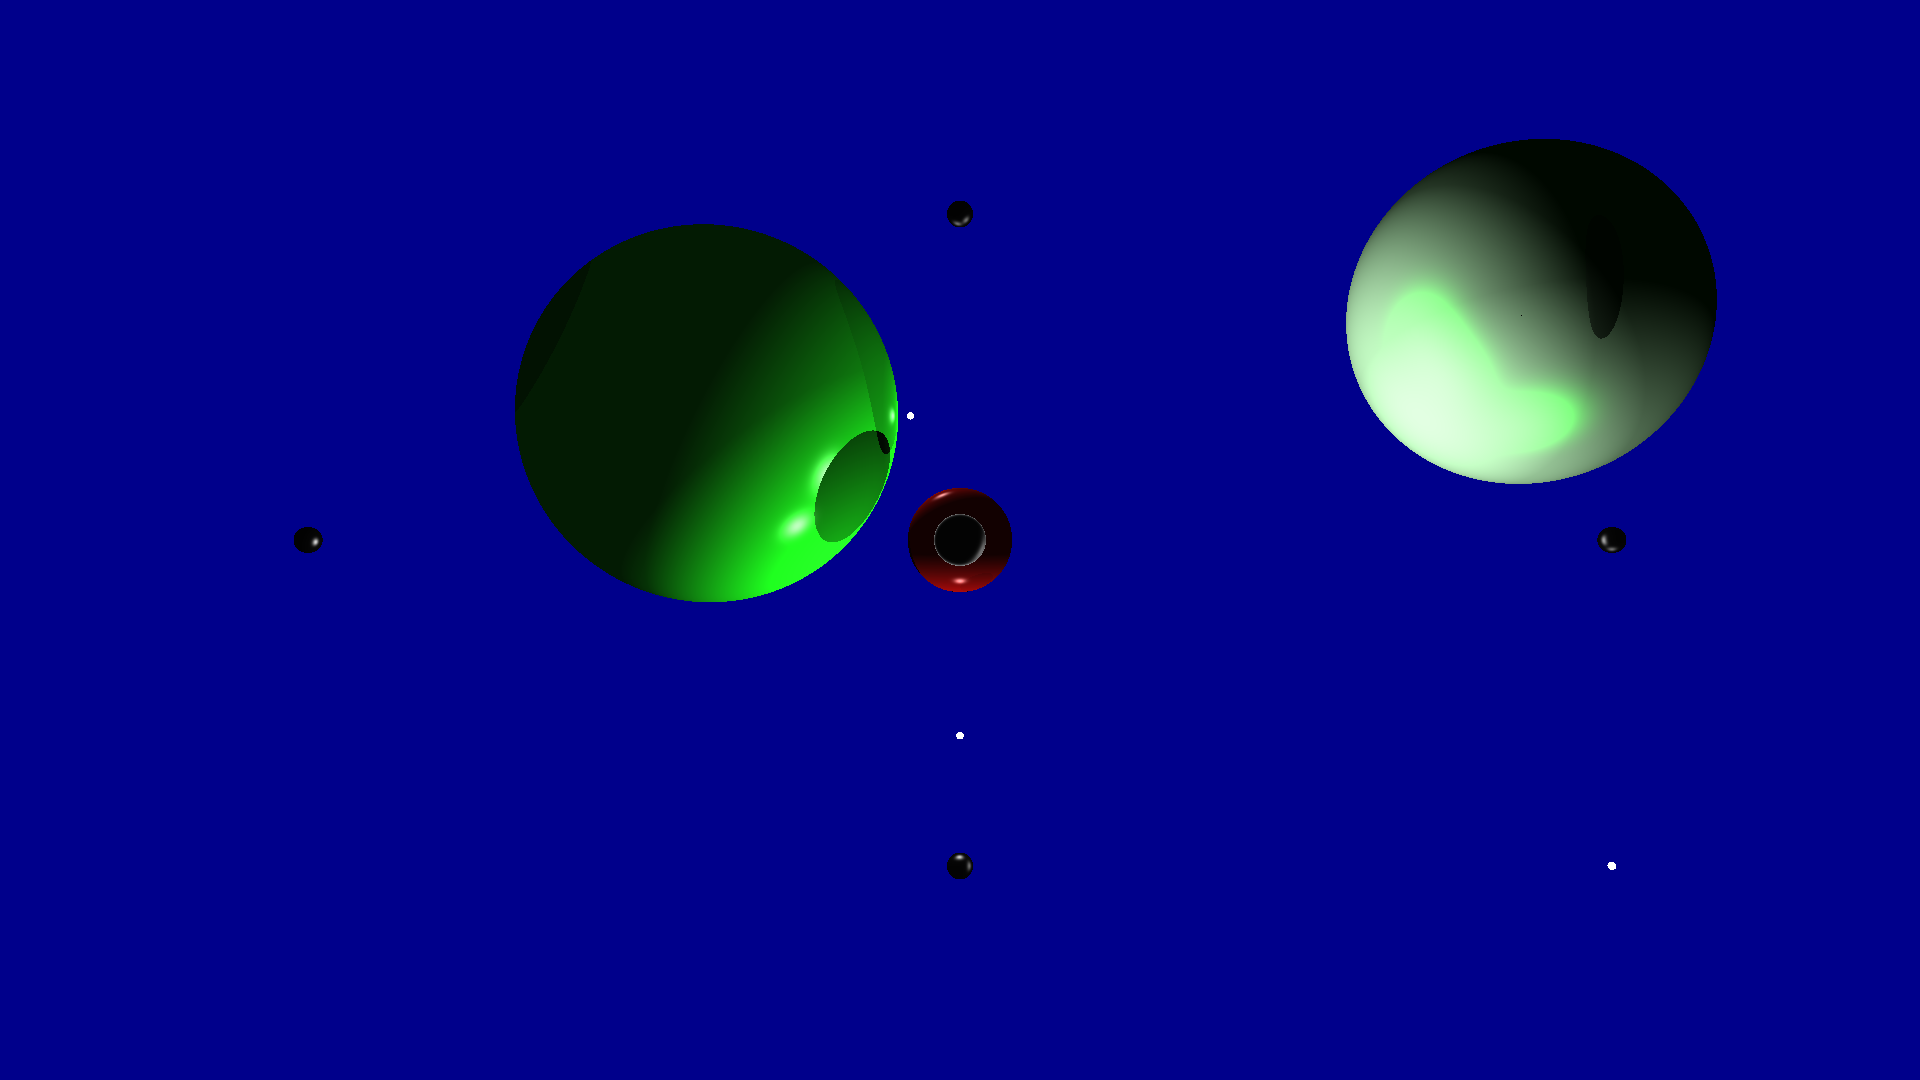
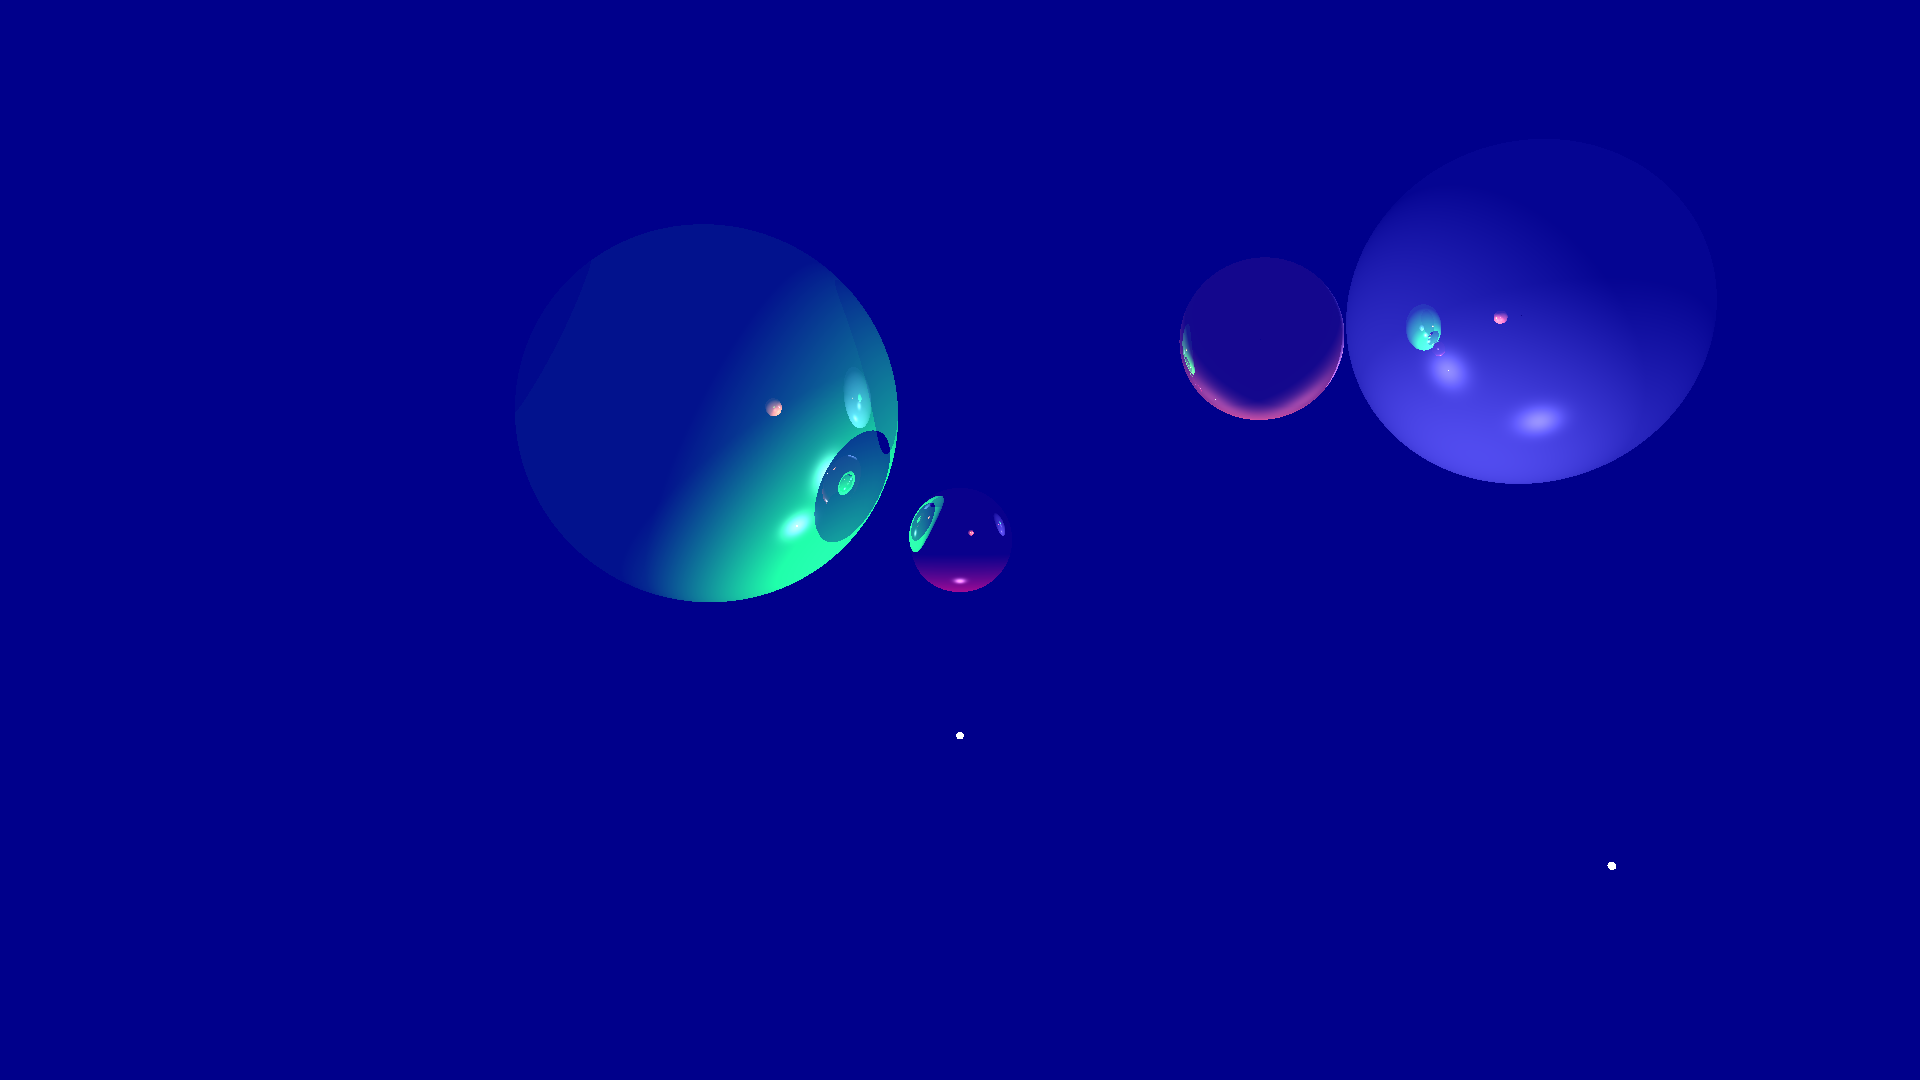
Added reflections

diff --git a/RayTracer/Renderer.cs b/RayTracer/Renderer.cs
@@ -42,7 +42,13 @@ public class Renderer
                         float y = -((2 * (i + 0.5f) / height - 1) * theta);
                         Vector3 direction = new Vector3(x, y, -1);
 
-                        img[j, i] = CastRay(Vector3.Normalize(direction), objects, lightSources);
+                        img[j, i] = CastRay(
+                            position,
+                            Vector3.Normalize(direction),
+                            objects,
+                            lightSources,
+                            0
+                        );
                     }
                 );
             }
@@ -51,7 +57,13 @@ public class Renderer
         return img;
     }
 
-    private Rgb24 CastRay(Vector3 direction, List<IObject> objects, List<LightSource> lightSources)
+    private Rgb24 CastRay(
+        Vector3 origin,
+        Vector3 direction,
+        List<IObject> objects,
+        List<LightSource> lightSources,
+        int depth
+    )
     {
         Vector3? potentialIntersection;
         bool isInter = false;
@@ -66,7 +78,7 @@ public class Renderer
         foreach (var l in lightSources)
         {
             Sphere s = new Sphere(.3f, l.position, null);
-            if (s.RayIntersect(position, direction))
+            if (s.RayIntersect(origin, direction))
             {
                 return new Rgb24(255, 255, 255);
             }
@@ -74,13 +86,13 @@ public class Renderer
 
         for (int i = 0; i < objects.Count; i++)
         {
-            potentialIntersection = objects[i].RayIntersectPoint(position, direction);
+            potentialIntersection = objects[i].RayIntersectPoint(origin, direction);
             if (potentialIntersection is null)
                 continue;
 
             isInter = true;
             inter = (Vector3)potentialIntersection;
-            dist = (inter - position).Length();
+            dist = (inter - origin).Length();
             if (dist < minDist)
             {
                 minInter = inter;
@@ -88,12 +100,13 @@ public class Renderer
                 minDist = dist;
             }
         }
-        if (!isInter)
+        if (!isInter || depth > 8)
             return bgColor;
 
         inter = minInter;
 
         bool inShadow = false;
+
         Material objectMaterial = objects[min].material;
         Vector3 N = objects[min].GetNormalVector(inter);
         Vector3 V,
@@ -101,9 +114,18 @@ public class Renderer
             R;
         float lightDotN;
         Vector4 totalLight = new Vector4(0, 0, 0, 1);
+
+        // reflections
+        Vector3 reflectedRay = direction - 2f * N * Vector3.Dot(N, direction);
+        //reflectedRay=(Vector3.Dot(reflectedRay, N)<0) ?
+        Vector4 reflectionColor = CastRay(inter, reflectedRay, objects, lightSources, depth + 1)
+            .ToVector4();
+        totalLight += reflectionColor * objectMaterial.albedo;
+
+        // lights contributions
         foreach (LightSource light in lightSources)
         {
-            V = Vector3.Normalize(inter - position);
+            V = Vector3.Normalize(inter - origin);
             lightDir = Vector3.Normalize(inter - light.position);
             inShadow = false;
             // shadows

diff --git a/RayTracerConsole/Program.cs b/RayTracerConsole/Program.cs
@@ -11,10 +11,13 @@ namespace RayTracer
             int width = height * 16 / 9;
             Renderer rd = new Renderer(width, height, new Vector3(0, 0, 100), new Vector3(0, 0, 0));
 
-            List<IObject> objects = GetAxis(50f);
-            objects.Add(new Sphere(15f, new Vector3(50f, 20f, -16f), new Material("greenrubber")));
+            //List<IObject> objects = GetAxis(50f);
+            List<IObject> objects = new List<IObject>();
+            objects.Add(new Sphere(15f, new Vector3(50f, 20f, -16f), new Material("obsidian")));
             objects.Add(new Sphere(15f, new Vector3(-20f, 10f, -5f), new Material("emerald")));
             objects.Add(new Sphere(4f, new Vector3(0, 0, 0), new Material("ruby")));
+
+            objects.Add(new Sphere(4f, new Vector3(15f, 10f, 35), new Material("copper")));
 
             List<LightSource> lights = new List<LightSource>();
 
@@ -37,17 +40,7 @@ namespace RayTracer
                 }
             );
 
-            lights.Add(
-                new LightSource()
-                {
-                    position = new Vector3(-4f, 10f, -5f),
-                    ambientComponent = new Vector4(.2f, .2f, .2f, .2f),
-                    DiffuseComponent = new Vector4(1f, 1f, 1f, 1f),
-                    SpecularComponent = new Vector4(1f, 1f, 1f, 1f),
-                }
-            );
-
-            AddRectangularLight(lights, .01f, .1f, new Vector3(-30, 15, 0), new Vector3(0, 15, 0));
+            //AddRectangularLight(lights, .5f, new Vector3(-30, 20, 50), new Vector3(0, 30, -20));
 
             Image<Rgb24> img = rd.Render(objects, lights, new Image<Rgb24>(width, height));
             img.SaveAsPng("output.png");
@@ -55,7 +48,7 @@ namespace RayTracer
 
         private static void AddRectangularLight(
             List<LightSource> lights,
-            float lightlevel,
+            //float lightlevel,
             float step,
             Vector3 start,
             Vector3 end
@@ -63,10 +56,12 @@ namespace RayTracer
         {
             Vector3 direction = (end - start);
 
+            float lightlevel = step * .1f;
+
             direction = direction * step / direction.Length();
 
             Vector3 tmp = start;
-            while ((end - tmp).Length() > .1f)
+            while ((end - tmp).Length() > step)
             {
                 lights.Add(
                     new LightSource()

diff --git a/RayTracer/Material.cs b/RayTracer/Material.cs
@@ -6,7 +6,8 @@ public class Material
     public Vector4 emissiveComponent,
         specularComponent,
         ambientComponent,
-        diffuseComponent;
+        diffuseComponent,
+        albedo;
     public float shininess;
 
     public Material(string materialName)
@@ -38,6 +39,7 @@ public class Material
                 specularComponent.W = 0;
 
                 shininess = 128 * float.Parse(components[3][0]);
+                albedo = new Vector4(1f, 1f, 1f, 1f);
                 return;
             }
             throw new Exception("This material isn't listed");
